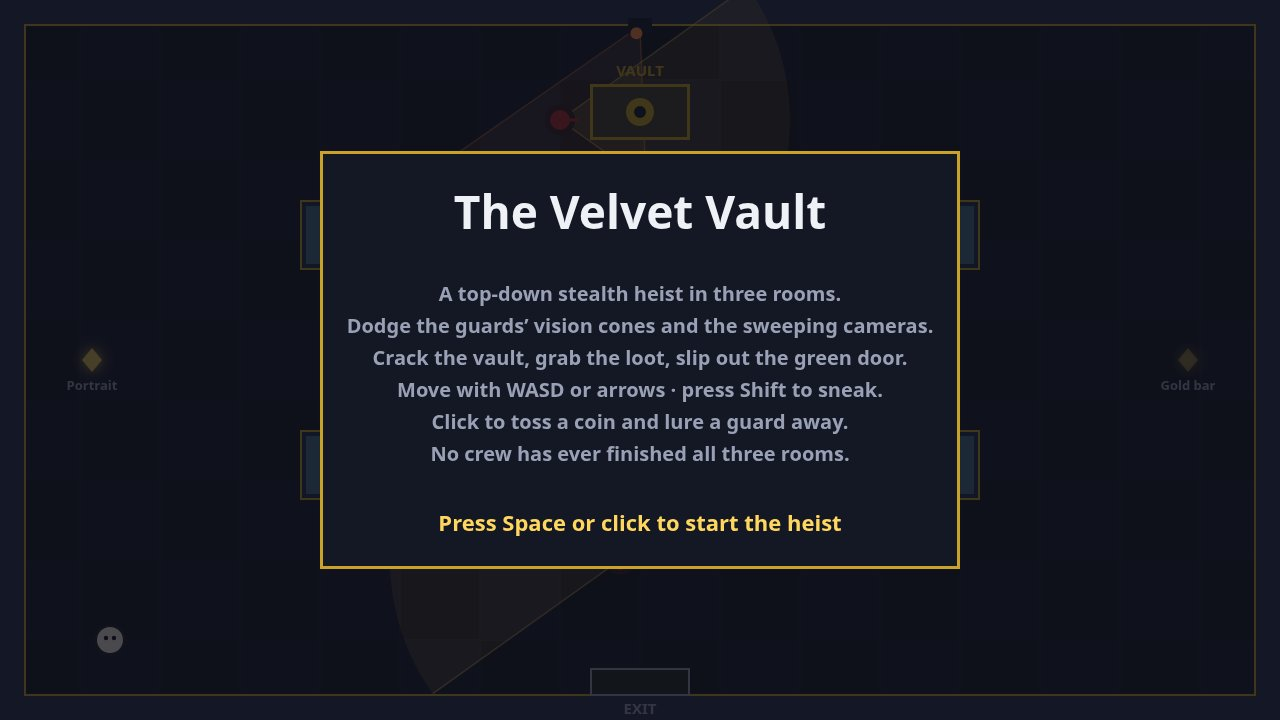
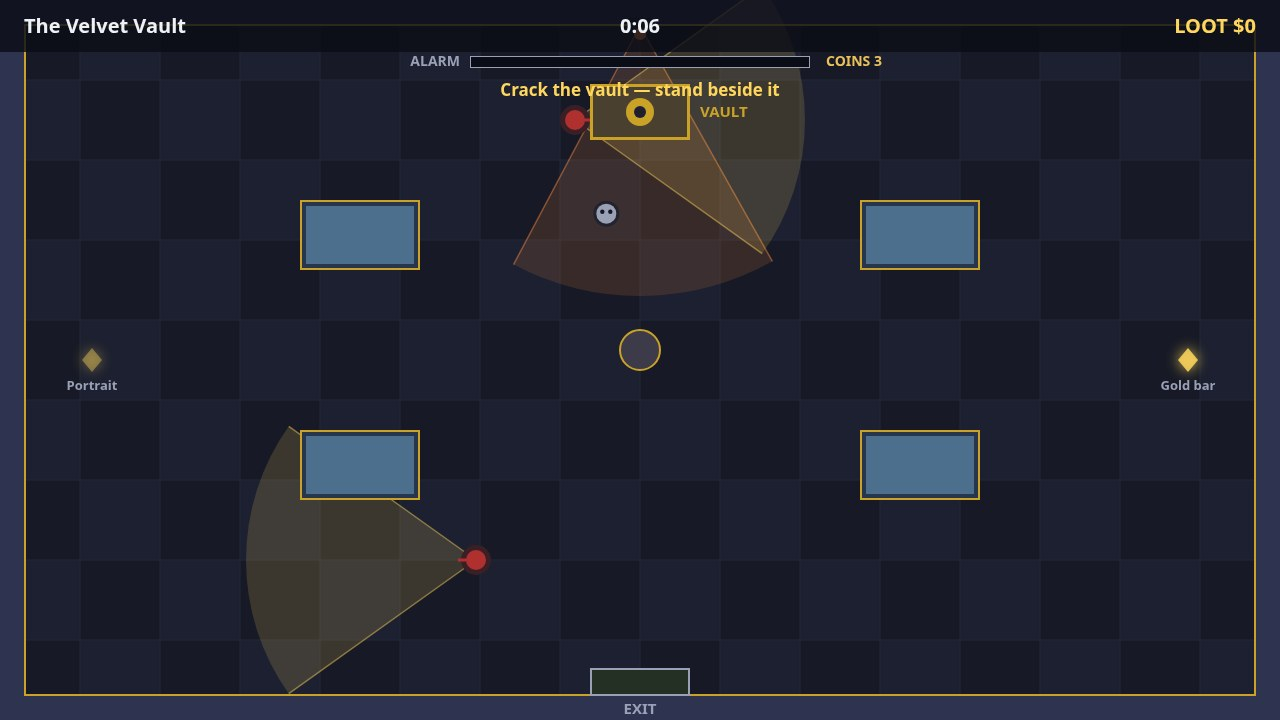
Review: live cover frame, honest busted reasons, lighter panel dim
- ?shot=start now stages the autopilot sneaking toward the vault and
  paints the new SCREEN_COVER: the live room with the full HUD and the
  game name, no panel hiding the cones, vault, loot or alarm meter.
  The old cover was a title panel over a dimmed room, so the judge's
  biggest image showed almost none of the heist.
- world.js now records bustedReason: a guard grab says so, an alarm-100
  blow-up says so. The BUSTED panel used to claim 'alarm hit 100' even
  when a guard grabbed you; the screen-reader announcement uses it too.
- Panel dim 0.72 -> 0.58 so the room reads through behind panels.
- Screenshots re-taken from the same staged scenes (seed 1).

diff --git a/game/src/render.js b/game/src/render.js
@@ -12,6 +12,10 @@ export const SCREEN_PAUSED = 'paused';
 export const SCREEN_OVER = 'over';
 export const SCREEN_LEVEL_WIN = 'levelwin';
 export const SCREEN_HEIST_WIN = 'heistwin';
+// The cover frame: the live room with the HUD, named for the game, used
+// only by the staged ?shot=start scene — the room, cones, vault, loot and
+// alarm meter all stay visible, with no panel over them.
+export const SCREEN_COVER = 'cover';
 
 const PANEL = { width: 640, top: 150, line: 32, bottom: 76 };
 const TILE = 80;
@@ -300,10 +304,10 @@ export function createRenderer(canvas) {
     context.fill();
   }
 
-  function drawHud(state) {
+  function drawHud(state, titleOverride) {
     context.fillStyle = 'rgba(11, 13, 22, 0.82)';
     context.fillRect(0, 0, FIELD.width, 52);
-    text(state.level.name, 24, 33, 20, PALETTE.text, 'left');
+    text(titleOverride || state.level.name, 24, 33, 20, PALETTE.text, 'left');
     text(formatTime(state.elapsed), FIELD.width / 2, 33, 20, PALETTE.text, 'center');
     text(lootLabel(state.loot), FIELD.width - 24, 33, 20, PALETTE.loot, 'right');
     // The alarm meter: a bar that fills green, then gold, then red.
@@ -336,7 +340,7 @@ export function createRenderer(canvas) {
     const height = PANEL.top + lines.length * PANEL.line + PANEL.bottom;
     const x = (FIELD.width - PANEL.width) / 2;
     const y = (FIELD.height - height) / 2;
-    context.fillStyle = 'rgba(11, 13, 22, 0.72)';
+    context.fillStyle = 'rgba(11, 13, 22, 0.58)';
     context.fillRect(0, 0, FIELD.width, FIELD.height);
     context.fillStyle = PALETTE.panel;
     context.fillRect(x, y, PANEL.width, height);
@@ -371,6 +375,12 @@ export function createRenderer(canvas) {
     context.fillRect(0, 0, canvas.width, canvas.height);
     context.setTransform(view.scale, 0, 0, view.scale, view.x, view.y);
     drawField(state);
+    if (screen === SCREEN_COVER) {
+      // The cover: the live room and the full HUD, named for the game, with
+      // no panel hiding the cones, the vault or the loot.
+      drawHud(state, 'The Velvet Vault');
+      return;
+    }
     if (screen === SCREEN_TITLE) {
       drawPanel(
         'The Velvet Vault',

diff --git a/game/src/shots.js b/game/src/shots.js
@@ -6,10 +6,10 @@
 // and the same seed always gives the same frame.
 
 import { FIELD, STEP, THIEF } from './config.js';
-import { SCREEN_LEVEL_WIN, SCREEN_OVER, SCREEN_PLAY, SCREEN_TITLE } from './render.js';
+import { SCREEN_COVER, SCREEN_LEVEL_WIN, SCREEN_OVER, SCREEN_PLAY } from './render.js';
 import { EVENT_BUSTED, EVENT_LEVEL_WIN } from './world.js';
 
-const START_SECONDS = 5;
+const COVER_SECONDS = 7;
 const PLAY_SECONDS = 14;
 const END_LIMIT_SECONDS = 150;
 const CELL = 20;
@@ -194,8 +194,16 @@ export function createAutopilot() {
 export function stageShot(name, world) {
   world.reset();
   if (name !== 'play' && name !== 'end') {
-    for (let index = 0; index < START_SECONDS / STEP; index += 1) world.step(STEP, { x: 0, y: 0 }, false, null);
-    return { screen: SCREEN_TITLE, best: 0 };
+    // The cover: the autopilot sneaks toward the vault, so the frame shows
+    // the thief mid-room with the cones sweeping — the live room, named,
+    // with no panel hiding it.
+    const coverPilot = createAutopilot();
+    for (let index = 0; index < COVER_SECONDS / STEP; index += 1) {
+      const move = coverPilot(world.state);
+      world.step(STEP, move.dir, move.sneak, null);
+      if (world.state.busted) break;
+    }
+    return { screen: SCREEN_COVER, best: 0 };
   }
   const limit = name === 'end' ? END_LIMIT_SECONDS : PLAY_SECONDS;
   const autopilot = createAutopilot();

diff --git a/game/src/world.js b/game/src/world.js
@@ -142,6 +142,7 @@ export function createWorld(random) {
     elapsed: 0,
     coin: null, // { x, y, ttl } — a tossed coin lying on the floor
     busted: false,
+    bustedReason: '',
     levelWon: false,
     heistWon: false,
   };
@@ -193,6 +194,7 @@ export function createWorld(random) {
     state.elapsed = 0;
     state.coin = null;
     state.busted = false;
+    state.bustedReason = '';
     state.levelWon = false;
     state.heistWon = false;
   }
@@ -376,6 +378,7 @@ export function createWorld(random) {
       }
       if (Math.hypot(guard.x - thief.x, guard.y - thief.y) < GUARD.catchRadius) {
         state.busted = true;
+        state.bustedReason = 'A guard grabbed you in the open.';
         events |= EVENT_BUSTED;
         return events;
       }
@@ -402,6 +405,7 @@ export function createWorld(random) {
     state.peakAlarm = Math.max(state.peakAlarm, state.alarm);
     if (state.alarm >= ALARM.bustedAt) {
       state.busted = true;
+      state.bustedReason = 'The alarm hit 100 and the crew scattered.';
       events |= EVENT_BUSTED;
       return events;
     }

diff --git a/game/src/main.js b/game/src/main.js
@@ -109,7 +109,9 @@ function runGame() {
       best = world.state.score;
       saveBest(best);
     }
-    announce(busted ? `Busted. Score ${world.state.score}. Best ${best}.` : `Game over. Score ${world.state.score}.`);
+    announce(busted
+      ? `Busted. ${world.state.bustedReason || 'The heist is blown.'} Score ${world.state.score}. Best ${best}.`
+      : `Game over. Score ${world.state.score}.`);
   }
 
   function finishHeist() {

diff --git a/README.md b/README.md
@@ -40,4 +40,4 @@ node serve.ts
 
 ## Screenshots
 
-`shots.json` lists the three staged scenes (`?shot=start|play|end&seed=1`): the title over the gallery, a mid-heist frame with cones sweeping, and a clean getaway. Each is a real render of the game's own code, taken in desktop Chrome.
+`shots.json` lists the three staged scenes (`?shot=start|play|end&seed=1`): the cover (the thief sneaking toward the vault with the cones sweeping), a mid-heist frame with the vault cracked and the getaway run, and a clean getaway. Each is a real render of the game's own code, taken in desktop Chrome.
